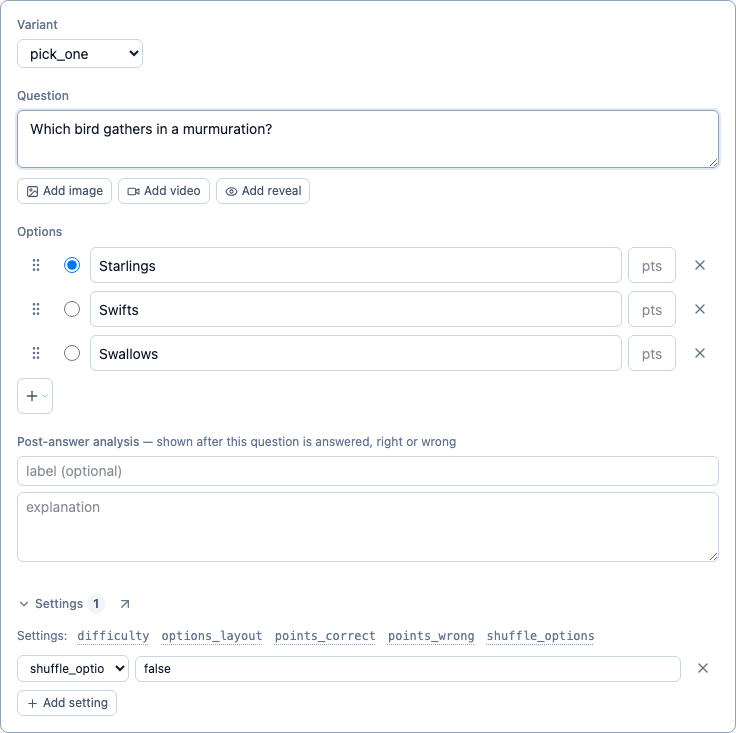
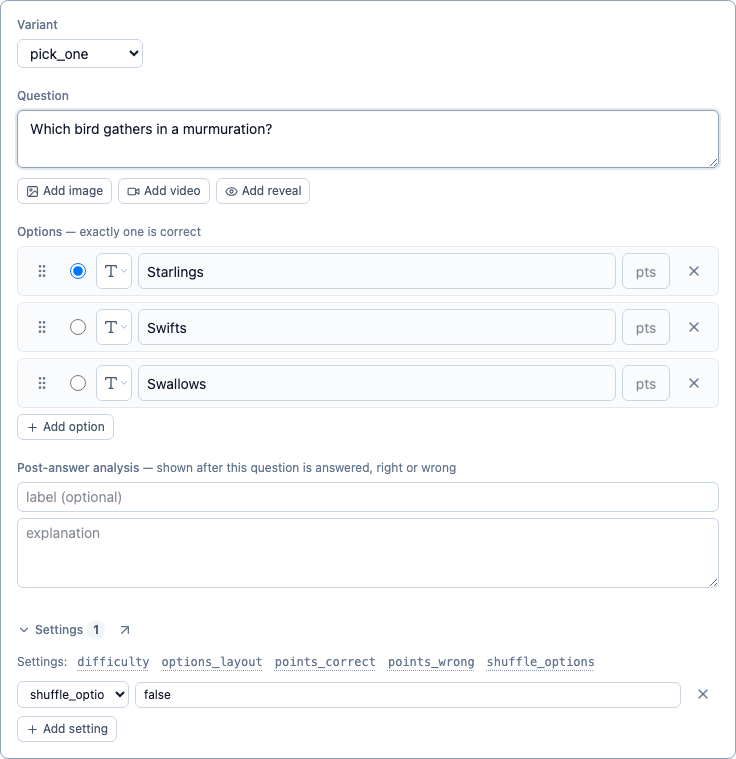
Make each option a distinct card, with its own kind picker
Option rows were bare controls stacked on the page background — on a
match_pairs row that's six controls in a line with nothing saying where one
pair ends and the next begins, and the wrapped two-line layout on a phone
made it worse. Each row is now its own tinted card.

The text/image/video picker is back on every row, which is where it can
actually be used: an option added as the wrong kind is one click from the
right one instead of a delete and re-add. It lives inside the shared
`contentFields` snippet, so every variant's row gets it — except the ones
whose options are compared as text (accepted answers, regex patterns), where
a picture would mean nothing. "Add option" goes back to a plain button, since
choosing the kind up front as well would be the same decision offered twice.

Form mode more broadly:

- One heading treatment for every block, with the per-variant rule split out
  as a hint. "Blank answers (checked) and word-bank distractors (unchecked)"
  was a 60-character string in the label position and had stopped reading as
  a label; it's now "Blank answers — checked fills a blank, unchecked is a
  bank decoy".
- The media/hints list gets a heading of its own rather than appearing as
  loose rows under the question field.
- Every list — options, accepted answers, elements — uses the same card, so
  the nine variants read as one form rather than nine.

Audited by rendering form mode for all nine variants at desktop and mobile
[…]

diff --git a/src/components/svelte/QuestionForm.svelte b/src/components/svelte/QuestionForm.svelte
@@ -119,6 +119,22 @@
     return usesTargetRows || content.kind !== 'text';
   }
 
+  /** Every row in a list — an option, an accepted answer, an element — is its own tinted card.
+   * As bare controls on the page background they ran together: on a `match_pairs` row that's six
+   * controls with nothing saying where one pair ends and the next begins, and the wrapped layout
+   * on a phone made that worse by putting two lines where there had been one. */
+  const ROW_CARD = '@container flex flex-wrap items-center gap-1.5 rounded-md border p-1.5';
+  const ROW_CARD_RESTING = 'border-slate-200 bg-slate-50/70';
+
+  /** One option row's card colours as a SINGLE mutually-exclusive class string — see
+   * QuestionPlayer's `choiceOptionTone` for why layering a base and an override silently resolves
+   * whichever way Tailwind happened to order the two utilities. */
+  function optionRowTone(index: number): string {
+    if (optionDrag?.id === index) return 'border-indigo-300 bg-indigo-50/50 opacity-40';
+    if (optionDrag?.overZone === index) return 'border-indigo-400 bg-indigo-50';
+    return ROW_CARD_RESTING;
+  }
+
   function blankElement(kind: 'image' | 'video' | 'reveal'): ElementItem {
     return kind === 'reveal'
       ? { _key: crypto.randomUUID(), kind: 'reveal', label: '', content: '', points: '0' }
@@ -190,8 +206,30 @@
   const rowNoun = $derived(usesAnswerRows ? 'accepted answer' : 'option');
   /** Whether an option here can BE a picture or clip rather than describe one — i.e. everything
    * except the variants whose options are compared as text (accepted answers, regex patterns).
-   * Decides whether this list offers one "Add option" button or one per kind. */
+   * Decides whether each row carries a kind picker, and whether adding one offers a choice. */
   const supportsMediaOptions = $derived(!usesAnswerRows && !isPattern);
+
+  /** What this variant's option list IS, as a heading plus the rule that governs it. Split in two
+   * so the long ones read as a label with an explanation rather than one runaway sentence in the
+   * label position — `fill_blanks` in particular was a 60-character "label". */
+  const optionsLabel = $derived.by((): { text: string; hint?: string } => {
+    if (usesAnswerRows) {
+      return {
+        text: 'Accepted answers',
+        hint: isCharacterInput ? 'the one word being guessed' : 'any of these count as correct'
+      };
+    }
+    if (isOrder) return { text: 'Items', hint: 'in the correct order — drag to rearrange' };
+    if (isMatch) return { text: 'Pairs', hint: 'each item and what it matches with' };
+    if (isCategorise) return { text: 'Items', hint: 'and the bucket each belongs in' };
+    if (isFillInBlanks) {
+      return { text: 'Blank answers', hint: 'checked fills a blank, unchecked is a bank decoy' };
+    }
+    if (isPattern) {
+      return { text: 'Patterns', hint: 'checked counts as correct, unchecked marks it wrong' };
+    }
+    return { text: 'Options', hint: isSingleChoice ? 'exactly one is correct' : undefined };
+  });
   const suggestedKeys = $derived(suggestedSettingKeysForVariant(variant));
   let text = $state(untrack(() => question.text));
   let elements: ElementItem[] = $state(
@@ -392,7 +430,20 @@
   }
   // Switching kind is a plain reset to that kind's blank default, same convention as switching a
   // whole question's variant — carrying old field values across kinds (e.g. text -> image's alt)
-  // wouldn't mean anything. Targets only: an option's own kind is fixed when it's added.
+  // wouldn't mean anything.
+  function setOptionKind(optionKey: string, kind: 'text' | 'image' | 'video') {
+    options = options.map((o) =>
+      o._key === optionKey && o.content.kind !== kind
+        ? {
+            ...o,
+            content:
+              kind === 'text' ? { kind: 'text' as const, text: '' } : { kind, alt: '', url: '' }
+          }
+        : o
+    );
+    emit();
+  }
+  /** The same, for the right-hand half of a `match_pairs` row. */
   function setTargetKind(optionKey: string, kind: 'text' | 'image' | 'video') {
     options = options.map((o) =>
       o._key === optionKey && o.target?.kind !== kind
@@ -495,6 +546,19 @@
   }
 </script>
 
+<!-- One heading treatment for every block of the form, so the eye can find the sections rather than
+     reading a flat stack of controls. `hint` carries the per-variant explanation that used to be
+     crammed into the label itself ("Blank answers (checked) and word-bank distractors
+     (unchecked)"), which at that length stopped reading as a label at all. -->
+{#snippet sectionLabel(text: string, hint?: string)}
+  <!-- `{text}` and the hint on separate lines so the space between them survives: Svelte trims
+       leading whitespace inside an element, so a `<span> — …` written inline renders as "Options—". -->
+  <p class="text-xs font-medium text-slate-500">
+    {text}
+    {#if hint}<span class="font-normal text-slate-500">— {hint}</span>{/if}
+  </p>
+{/snippet}
+
 <div class="space-y-5">
   <ErrorList errors={formErrors} />
 
@@ -525,8 +589,11 @@
     </div>
 
     <div class="space-y-1.5">
+      {#if elements.length > 0}
+        {@render sectionLabel('Media & hints', 'shown with the question, before it is answered')}
+      {/if}
       {#each elements as item, index (item._key)}
-        <div class="@container flex flex-wrap items-center gap-1.5">
+        <div class="{ROW_CARD} {ROW_CARD_RESTING}">
           <KindPicker
             kinds={ELEMENT_KINDS}
             value={item.kind}
@@ -616,15 +683,27 @@
     </div>
   </div>
 
-  <!-- One option's content fields, shared by every variant's row: a single text box, or the
-       alt + url pair a picture or clip needs. `optionRefs[index]` lands on whichever of them comes
-       first, so clicking an option in the preview focuses this row wherever the kind moved it. -->
+  <!-- One option's content fields, shared by every variant's row: a kind picker, then either a
+       single text box or the alt + url pair a picture or clip needs. `optionRefs[index]` lands on
+       whichever field comes first, so clicking an option in the preview focuses this row wherever
+       the kind moved it.
+       The picker only appears where a picture would mean something — the variants whose options
+       are compared as text (accepted answers, regex patterns) have `supportsMediaOptions` false,
+       so those rows stay a bare field. -->
   {#snippet contentFields(
     content: QuizScriptOptionContent,
     index: number,
     placeholder: string,
     monospace = false
   )}
+    {#if supportsMediaOptions}
+      <KindPicker
+        kinds={OPTION_KINDS}
+        value={content.kind}
+        label={`${rowNoun[0].toUpperCase()}${rowNoun.slice(1)} content type`}
+        onSelect={(kind) => setOptionKind(options[index]._key, kind)}
+      />
+    {/if}
     {#if content.kind === 'text'}
       <input
         bind:this={optionRefs[index]}
@@ -653,30 +732,13 @@
   {/snippet}
 
   <div class="space-y-1.5">
-    <p class="text-xs font-medium text-slate-500">
-      {usesAnswerRows
-        ? 'Accepted answers'
-        : isOrder
-          ? 'Items, in the correct order'
-          : isMatch
-            ? 'Pairs'
-            : isCategorise
-              ? 'Items and their bucket'
-              : isFillInBlanks
-                ? 'Blank answers (checked) and word-bank distractors (unchecked)'
-                : isPattern
-                  ? 'Regex patterns — checked counts as correct, unchecked marks the answer wrong'
-                  : 'Options'}
-    </p>
+    {@render sectionLabel(optionsLabel.text, optionsLabel.hint)}
     {#each options as option, index (option._key)}
       <div
         bind:this={optionRowEls[index]}
         data-drop-group={OPTION_DROP_GROUP}
         data-drop-zone={index}
-        class="@container flex flex-wrap items-center gap-1.5 rounded-md border transition-colors {optionDrag?.overZone ===
-          index && optionDrag?.id !== index
-          ? 'border-indigo-400 bg-indigo-50'
-          : 'border-transparent'} {optionDrag?.id === index ? 'opacity-40' : ''}"
+        class="{ROW_CARD} transition-colors {optionRowTone(index)}"
       >
         <!-- The reorder handle, ahead of everything else in the row so the drag affordance reads
              before the content it moves. It replaces the pair of up/down chevrons that used to sit
@@ -832,27 +894,17 @@
       </div>
     {/each}
     {#if !isCharacterInput || options.length === 0}
-      {#if supportsMediaOptions}
-        <!-- One 36px trigger instead of three labelled buttons. An option's kind is still settled
-             when it's added rather than switched per row afterwards, but three buttons spent a
-             whole row of a phone's width restating "Add" — and they sat directly under the option
-             list they added to, which made the list's own bottom edge hard to find. -->
-        <KindPicker
-          kinds={OPTION_KINDS}
-          icon={Plus}
-          label={`Add ${rowNoun}`}
-          onSelect={(kind) => addOption(kind)}
-        />
-      {:else}
-        <button
-          type="button"
-          class="flex items-center gap-1 rounded-md border border-slate-300 px-2 py-1 text-xs text-slate-600 hover:bg-slate-50"
-          onclick={() => addOption()}
-        >
-          <Plus size={13} />
-          {usesAnswerRows ? 'Add accepted answer' : 'Add option'}
-        </button>
-      {/if}
+      <!-- A plain button now that every row carries its own kind picker: choosing the kind up
+           front as well would be the same decision offered twice, and a row added as the wrong
+           kind is one click from the right one. -->
+      <button
+        type="button"
+        class="flex items-center gap-1 rounded-md border border-slate-300 px-2 py-1 text-xs text-slate-600 hover:bg-slate-50"
+        onclick={() => addOption()}
+      >
+        <Plus size={13} />
+        Add {rowNoun}
+      </button>
     {/if}
     {#if isCharacterInput && options[0]?.content.kind === 'text' && options[0].content.text}
       {@const answerText = options[0].content.text}

diff --git a/e2e/create-quiz.spec.ts b/e2e/create-quiz.spec.ts
@@ -99,20 +99,21 @@ test('a question with errors shows a count in view mode that opens code mode', a
   await expect(errorPill).toHaveCount(0);
 });
 
-test('Add image option builds a picture option with no per-row kind control', async ({ page }) => {
+test("switching an option's kind to Image swaps its field for alt + url", async ({ page }) => {
   const builder = new BuilderPage(page);
   await builder.gotoCreate();
   await builder.titleInput.fill('Picture Options');
   await builder.addQuestion();
   await builder.questionTextInput().fill('Which flag is this?');
 
+  // Every option row carries its own kind picker, so a row added as text becomes a picture in
+  // place rather than having to be deleted and re-added.
+  await expect(page.getByRole('button', { name: /Option content type/ })).toHaveCount(2);
   await builder.addOption('Image');
 
-  // The new row asks for alt + url directly — the kind was decided when it was added, so there's
-  // no picker on the row to switch it afterwards.
   await expect(page.getByPlaceholder('alt text')).toHaveCount(1);
   await expect(page.getByPlaceholder('url')).toHaveCount(1);
-  await expect(page.getByRole('button', { name: /Option content type/ })).toHaveCount(0);
+  await expect(page.getByRole('button', { name: 'Option content type: Image' })).toHaveCount(1);
 
   await page.getByPlaceholder('alt text').fill('A red circle on white');
   await page.getByPlaceholder('url').fill('https://example.com/jp.png');

diff --git a/e2e/pages/BuilderPage.ts b/e2e/pages/BuilderPage.ts
@@ -52,12 +52,16 @@ export class BuilderPage {
     return this.page.getByLabel('Question', { exact: true });
   }
 
-  /** Adds an option of `kind` through the "Add option" menu — an icon trigger plus a menu, so it's
-   * two steps rather than one button per kind. `rowNoun` differs per variant ("Add accepted
-   * answer" on the typed ones), but only the variants offering a kind choice route through here. */
+  /** Adds an option, then switches its kind if it isn't the plain-text default — a new row is
+   * always text, and each row's own kind picker is what changes it. */
   async addOption(kind: 'Text' | 'Image' | 'Video' = 'Text'): Promise<void> {
     await this.page.getByRole('button', { name: 'Add option' }).click();
-    await this.page.getByRole('menuitem', { name: kind, exact: true }).click();
+    if (kind === 'Text') return;
+    await this.page
+      .getByRole('button', { name: /content type/ })
+      .last()
+      .click();
+    await this.page.getByRole('menuitemradio', { name: kind, exact: true }).click();
   }
 
   /** The Nth option row's text input within whichever question card is currently in form mode.
